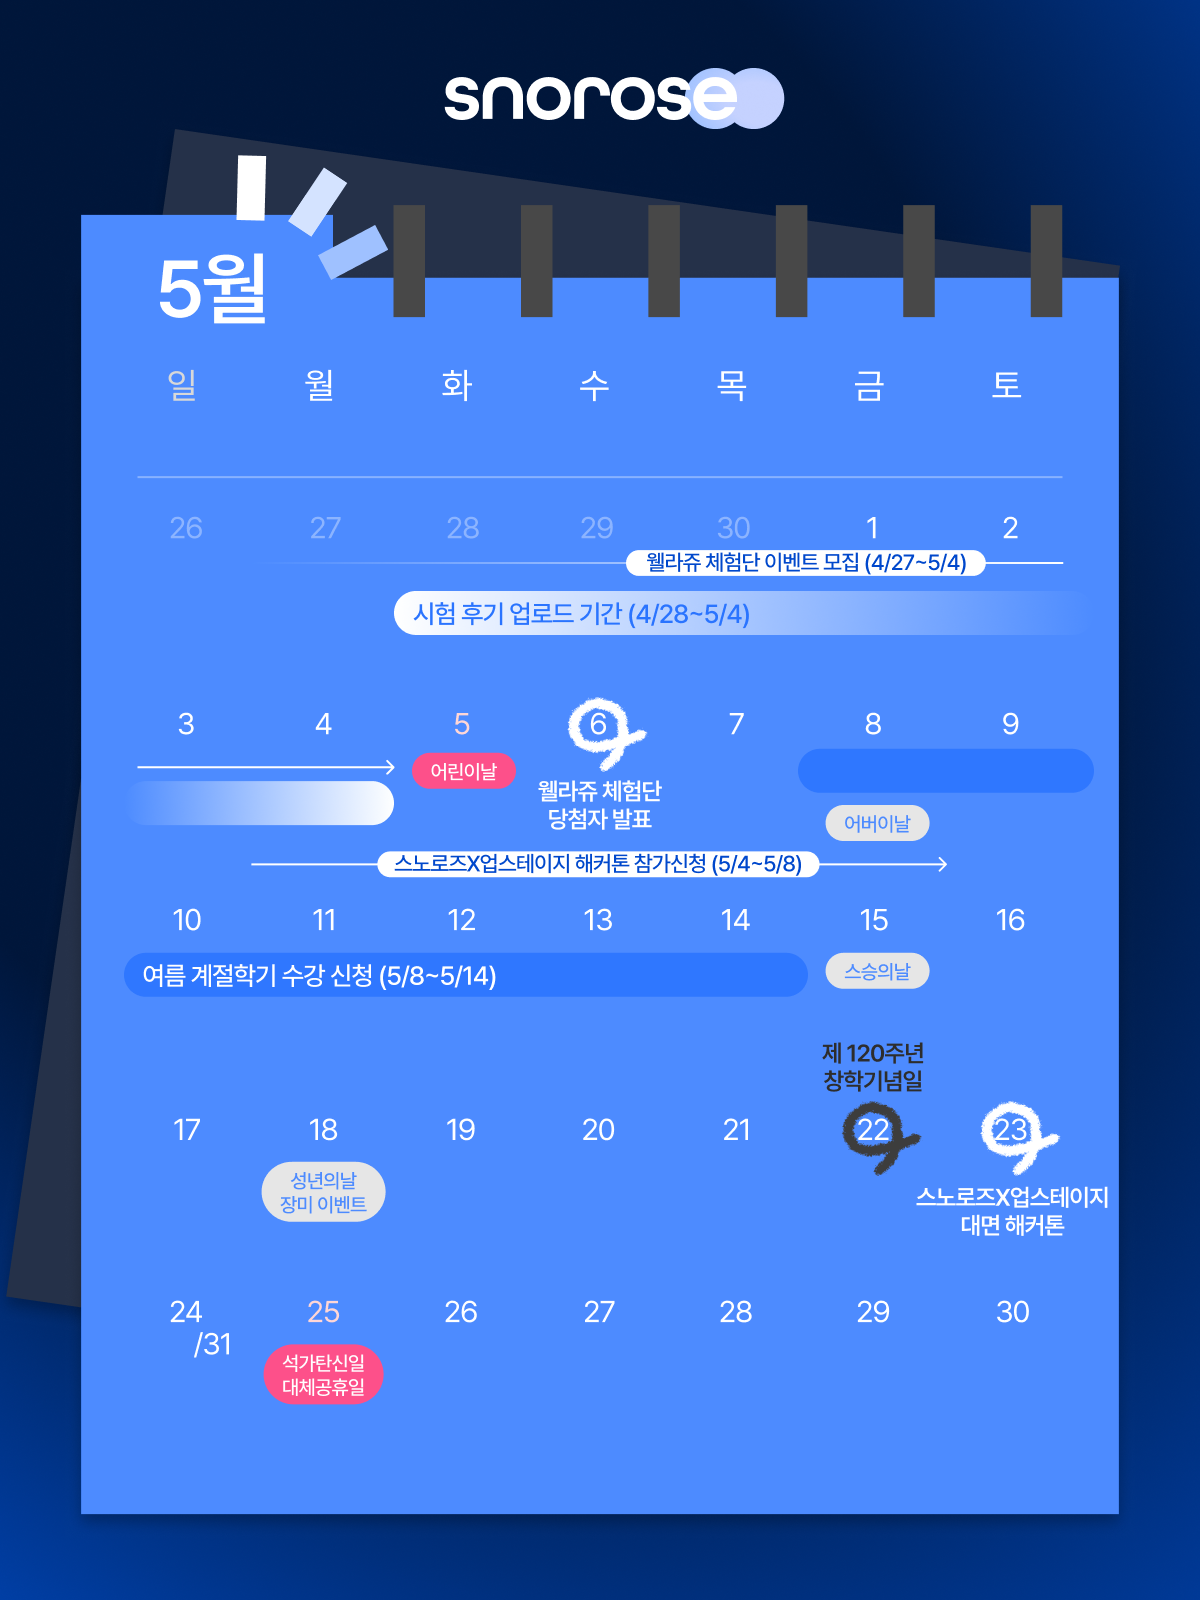
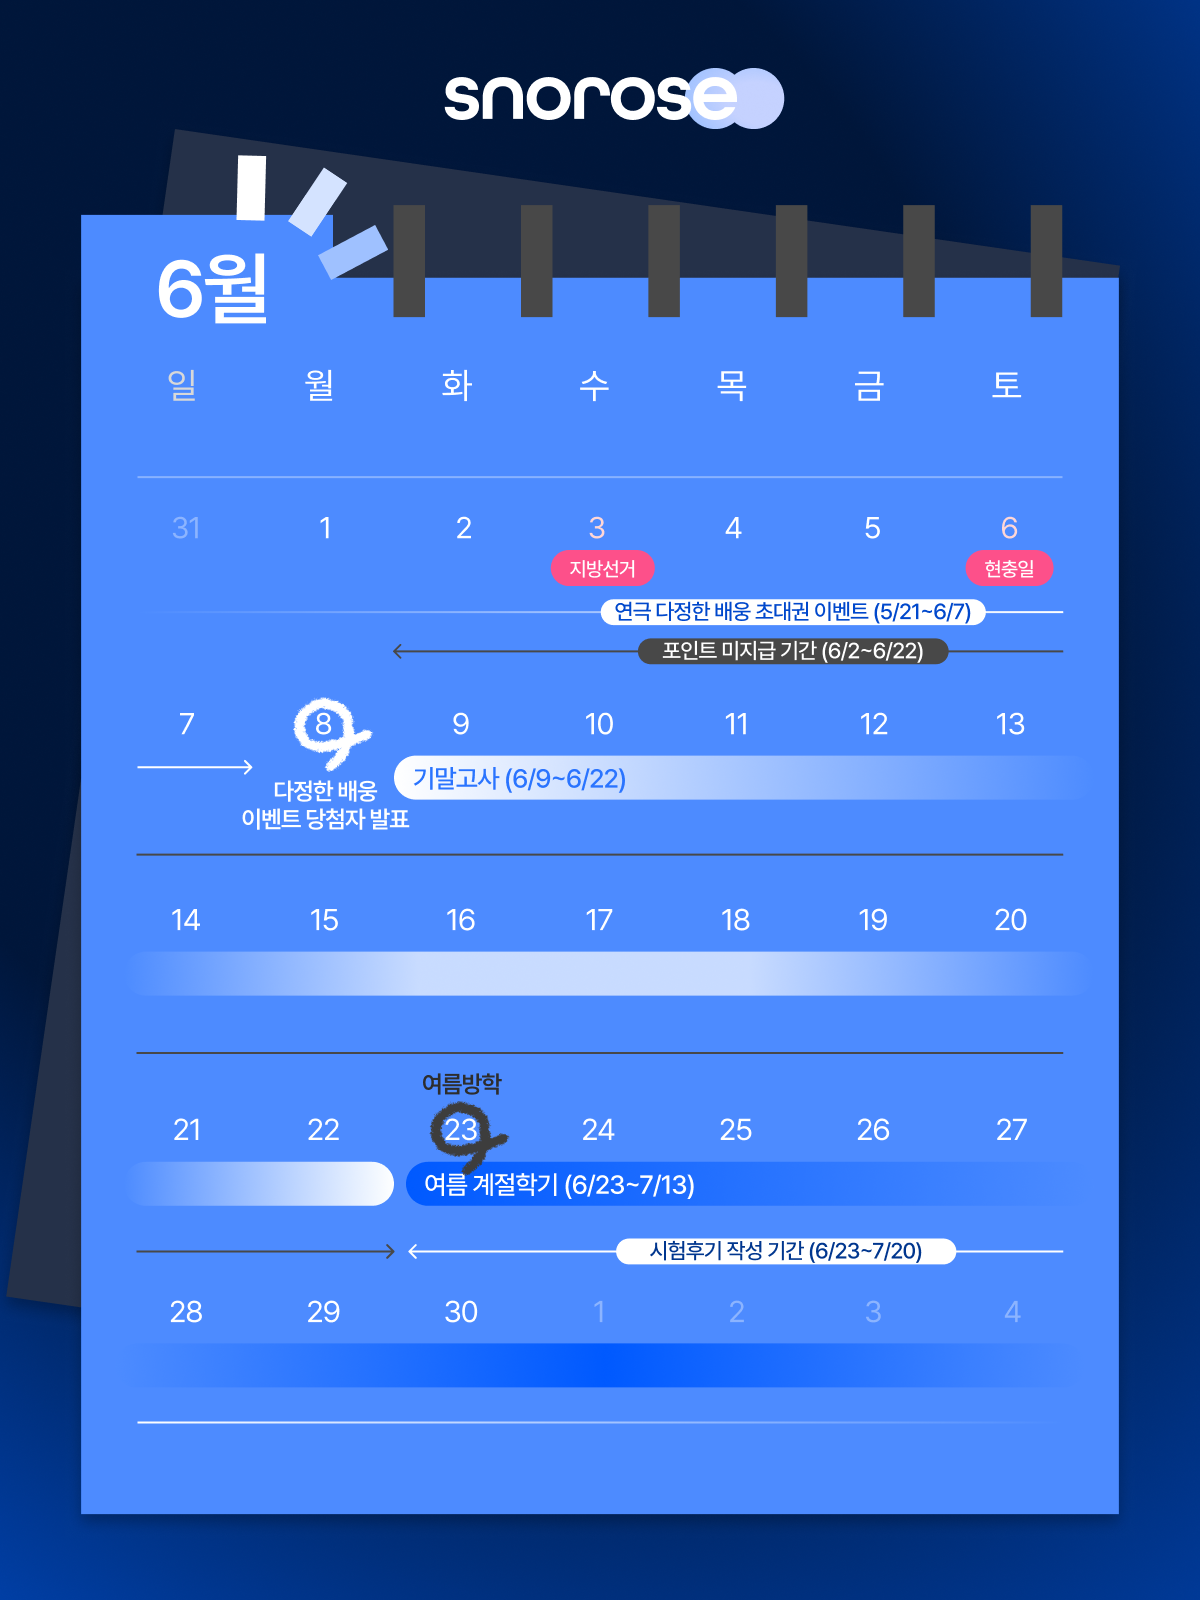
[FEAT] #1664 6월 팝업 업데이트

diff --git a/src/feature/home/component/PopUp/PopUpContents.jsx b/src/feature/home/component/PopUp/PopUpContents.jsx
@@ -44,10 +44,10 @@ const POPUP_CONTENTS = [
     endDate: '2026-05-04',
   },
   {
-    title: '[캘린더] 5월 스노로즈 일정',
+    title: '[캘린더] 6월 스노로즈 일정',
     image: calendarImage,
-    startDate: '2026-04-28',
-    endDate: '2026-05-10',
+    startDate: '2026-05-31',
+    endDate: '2026-06-10',
   },
 ];
 